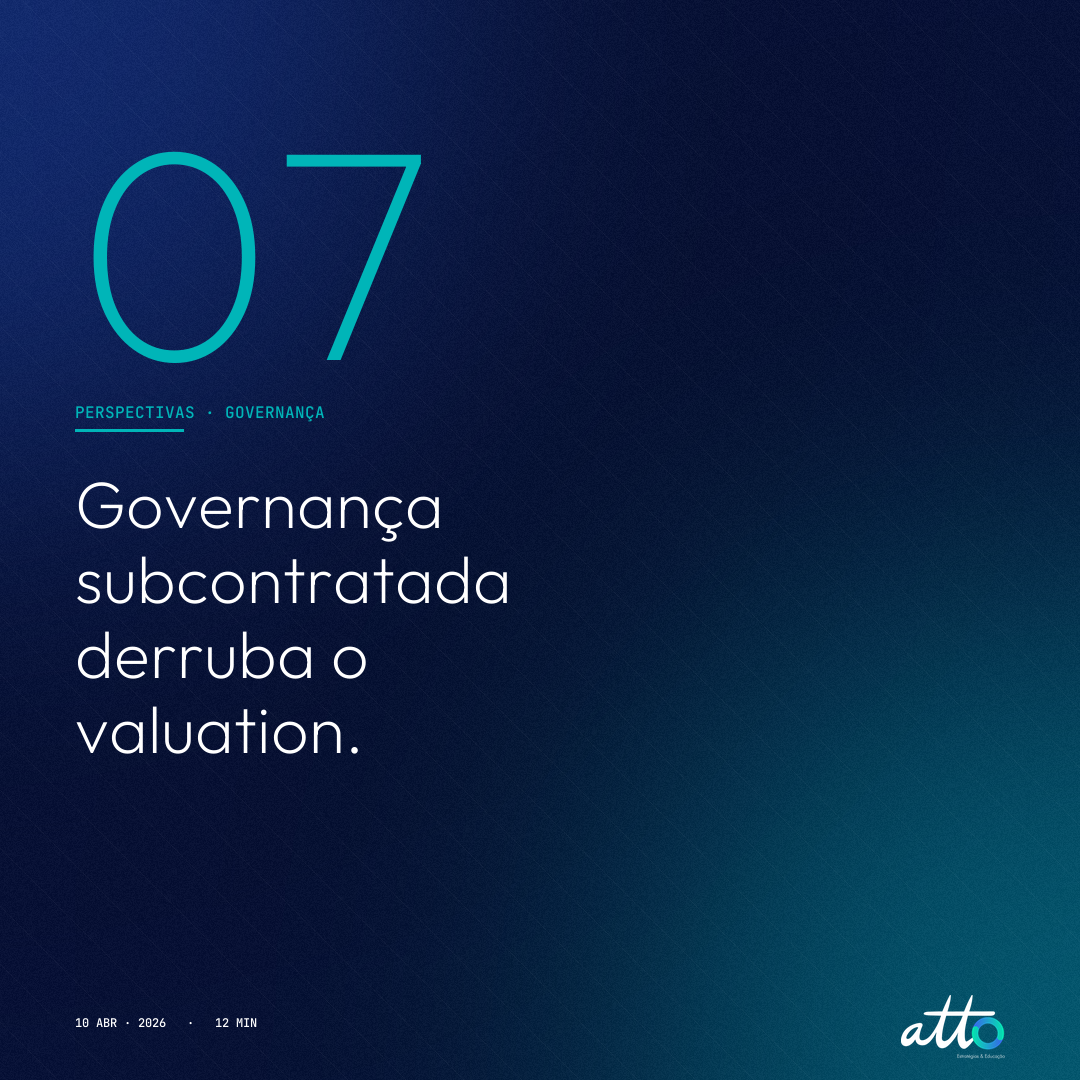
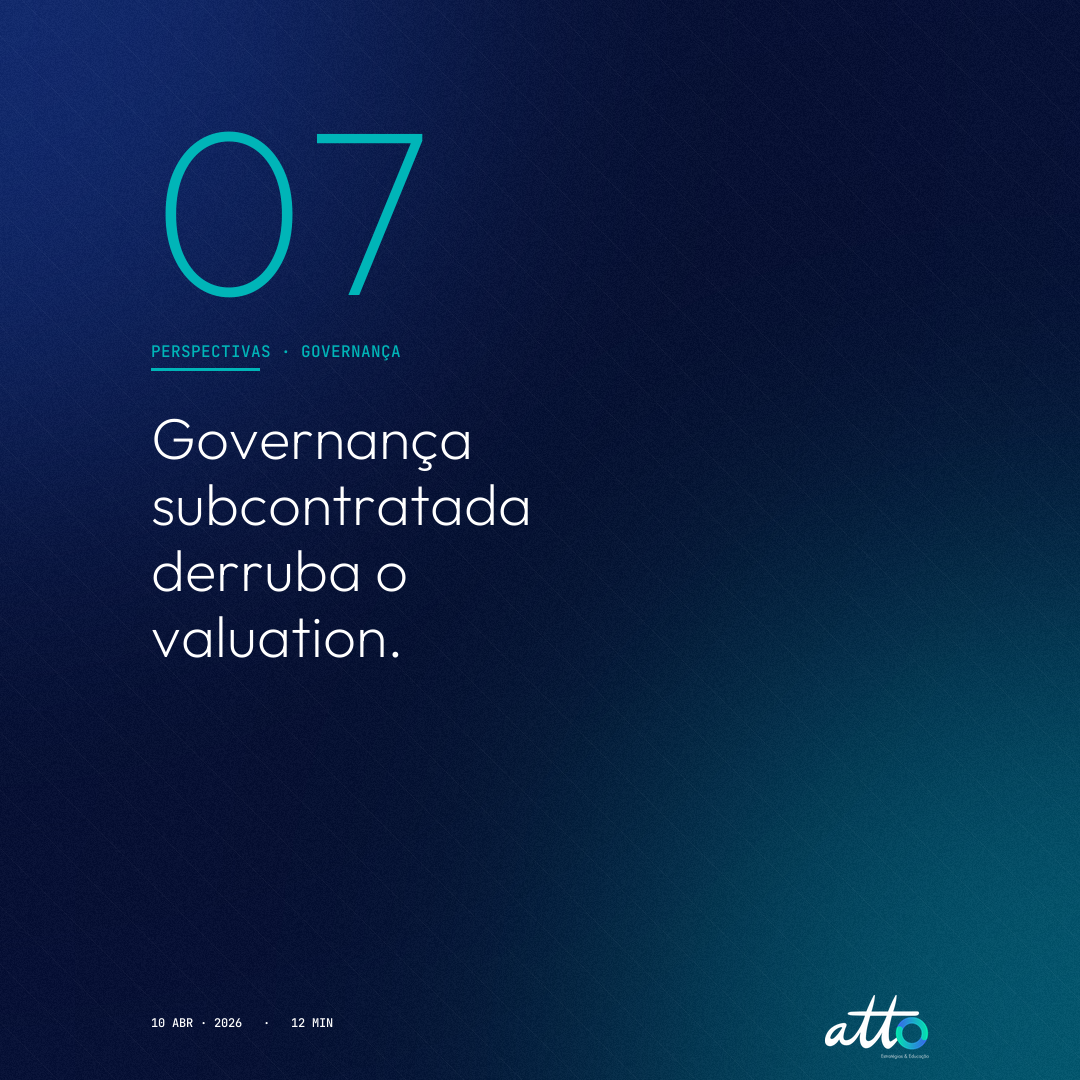
fix(perspectivas): card #9 + bug update_feature_block

diff --git a/site/perspectivas.html b/site/perspectivas.html
@@ -169,6 +169,13 @@
     <div class="persp-feed-grid">
       <!-- POSTS:FEED_START -->
       <!-- SCHEDULED-POSTS-START (cards inseridos automaticamente pelo workflow publish-scheduled) -->
+      <a href="perspectivas/reforma-tributaria-pequenas-e-medias-empresas-2026.html" class="persp-card" data-publish-date="2026-05-06">
+        <div class="persp-card-img img-dark" style="background-image:url('assets/capas/reforma-tributaria-pequenas-e-medias-empresas-2026_hero.png');background-size:cover;background-position:center"><span class="tag">Direção</span></div>
+        <div class="persp-card-meta"><span>13 min</span><span>Mai · 2026</span></div>
+        <h3>Reforma tributária em fase de teste: o que a pequena e média empresa precisa decidir em 2026 para proteger margem.</h3>
+        <p>CBS e IBS entraram em cobrança simbólica. O que precisa ser feito agora em precificação, contrato, ERP e cadastro fiscal para chegar a 2027 sem perder margem.</p>
+        <span class="author">Por Guilherme Walter</span>
+      </a>
       <a href="perspectivas/contratar-gente-engajada-pequenas-e-medias-empresas.html" class="persp-card" data-publish-date="2026-05-02">
         <div class="persp-card-img img-paper" style="background-image:url('assets/capas/contratar-gente-engajada-pequenas-e-medias-empresas_hero.png');background-size:cover;background-position:center"><span class="tag">Pessoas</span></div>
         <div class="persp-card-meta"><span>11 min</span><span>Mai · 2026</span></div>

diff --git a/scripts/make_newsletter_cover.py b/scripts/make_newsletter_cover.py
@@ -1,0 +1,174 @@
+#!/usr/bin/env python3
+"""
+make_newsletter_cover.py
+
+Gera o ícone 300×300 da Newsletter "Perspectivas Atto" no LinkedIn.
+Reaproveita exatamente as cores e fontes das capas dos posts (Outfit + JetBrains Mono,
+gradiente navy noite → azul atto + blob teal) para manter a coesão visual.
+
+A renderização é feita em 600×600 e downsampleada para 300×300, para garantir
+nitidez nos displays Retina do feed do LinkedIn.
+
+Uso:
+    cd ~/Documents/Claude/Projects/Site\\ da\\ Atto/site
+    python3 scripts/make_newsletter_cover.py
+
+Saída:
+    ~/Desktop/atto_newsletter_300.png
+
+Pode ser rodado quantas vezes quiser; sobrescreve o arquivo existente.
+"""
+from PIL import Image, ImageDraw, ImageFont, ImageFilter
+import numpy as np
+import os
+from pathlib import Path
+
+# ============================================================
+# CONFIG (mesmas constantes do capas.py)
+# ============================================================
+ROOT = os.path.abspath(os.path.join(os.path.dirname(__file__), ".."))
+SITE = os.path.join(ROOT, "site")
+FONT_DIR = "/Users/guilhermewalter/Documents/Claude/Projects/Site da Atto/fonts"
+LOGO_PATH = os.path.join(SITE, "assets", "atto_logo_white_o.png")
+OUT_PATH = os.path.expanduser("~/Desktop/atto_newsletter_300.png")
+
+OUTFIT = os.path.join(FONT_DIR, "Outfit-VariableFont_wght.ttf")
+MONO = os.path.join(FONT_DIR, "JetBrainsMono-VariableFont_wght.ttf")
+
+AZUL_ATTO = (26, 58, 143)
+AZUL_NOITE = (8, 18, 56)
+TEAL = (0, 181, 184)
+
+# Renderiza em 600×600 (retina) e downsampleia para 300×300
+SCALE = 2
+W = H = 300 * SCALE  # 600x600
+
+
+# ============================================================
+# HELPERS
+# ============================================================
+def blob(img, cx, cy, r, color, alpha=180, blur=None):
+    """Pinta um disco borrado por cima da imagem (para gradiente sutil)."""
+    b = Image.new("RGBA", img.size, (0, 0, 0, 0))
+    d = ImageDraw.Draw(b)
+    d.ellipse([cx - r, cy - r, cx + r, cy + r], fill=color + (alpha,))
+    b = b.filter(ImageFilter.GaussianBlur(blur or r // 2))
+    if img.mode != "RGBA":
+        img = img.convert("RGBA")
+    return Image.alpha_composite(img, b)
+
+
+def add_grain(img, intensity=4):
+    """Adiciona ruído sutil para evitar banding no gradiente."""
+    arr = np.array(img, dtype=np.int16)
+    noise = np.random.randint(-intensity, intensity, arr.shape[:2], dtype=np.int16)
+    for c in range(3):
+        arr[:, :, c] = np.clip(arr[:, :, c] + noise, 0, 255)
+    return Image.fromarray(arr.astype(np.uint8))
+
+
+def mono(size, weight=500):
+    f = ImageFont.truetype(MONO, size)
+    try:
+        f.set_variation_by_axes([weight])
+    except Exception:
+        pass
+    return f
+
+
+def draw_letter_spaced(d, text, x, y, font, fill, letter_spacing_em=0.12):
+    """Desenha texto com letter-spacing manual (Pillow não tem nativo)."""
+    sample_h = font.getbbox("A")[3]
+    extra = int(sample_h * letter_spacing_em)
+    cx = x
+    for ch in text:
+        d.text((cx, y), ch, fill=fill, font=font)
+        bbox = d.textbbox((0, 0), ch, font=font)
+        cx += (bbox[2] - bbox[0]) + extra
+    return cx - extra  # x final
+
+
+def measure_letter_spaced(d, text, font, letter_spacing_em=0.12):
+    """Mede a largura total do texto com letter-spacing manual."""
+    sample_h = font.getbbox("A")[3]
+    extra = int(sample_h * letter_spacing_em)
+    total = 0
+    for i, ch in enumerate(text):
+        bbox = d.textbbox((0, 0), ch, font=font)
+        total += (bbox[2] - bbox[0])
+        if i < len(text) - 1:
+            total += extra
+    return total
+
+
+# ============================================================
+# RENDER
+# ============================================================
+def main():
+    if not os.path.exists(LOGO_PATH):
+        raise SystemExit(
+            f"❌ Logo não encontrado em {LOGO_PATH}\n"
+            "   Verifique se o caminho do projeto está correto."
+        )
+    if not os.path.exists(OUTFIT) or not os.path.exists(MONO):
+        raise SystemExit(
+            f"❌ Fontes não encontradas em {FONT_DIR}\n"
+            "   Esse script espera as fontes nos paths do capas.py."
+        )
+
+    # 1) Fundo navy + blobs (gradient sintético)
+    img = Image.new("RGBA", (W, H), AZUL_NOITE + (255,))
+    img = blob(img, int(W * 0.92), int(H * 0.92), int(W * 0.45), TEAL,      alpha=120, blur=int(W * 0.24))
+    img = blob(img, int(W * 0.08), int(H * 0.10), int(W * 0.50), AZUL_ATTO, alpha=170, blur=int(W * 0.26))
+    img = add_grain(img.convert("RGB"), 3).convert("RGBA")
+
+    # 2) Logo Atto white centralizado (logo branco com o O turquesa)
+    logo = Image.open(LOGO_PATH).convert("RGBA")
+    target_w = int(W * 0.50)  # logo ocupa metade da largura
+    ratio = target_w / logo.width
+    logo_w, logo_h = target_w, int(logo.height * ratio)
+    logo = logo.resize((logo_w, logo_h), Image.LANCZOS)
+    lx = (W - logo_w) // 2
+    ly = int(H * 0.32) - logo_h // 2  # centralizado um pouco acima do meio
+    img.paste(logo, (lx, ly), logo)
+
+    # 3) Linha teal de acento abaixo do logo
+    d = ImageDraw.Draw(img, "RGBA")
+    line_y = ly + logo_h + int(H * 0.07)
+    line_w = int(W * 0.12)
+    line_h = max(2, int(H * 0.008))
+    d.rectangle(
+        [(W - line_w) // 2, line_y, (W + line_w) // 2, line_y + line_h],
+        fill=TEAL,
+    )
+
+    # 4) "PERSPECTIVAS" em JetBrains Mono caps com letter-spacing
+    perspectivas_size = int(H * 0.057)
+    f_mono = mono(perspectivas_size, weight=500)
+    text = "PERSPECTIVAS"
+    text_w = measure_letter_spaced(d, text, f_mono, 0.14)
+    text_x = (W - text_w) // 2
+    text_y = line_y + int(H * 0.04)
+    draw_letter_spaced(
+        d, text, text_x, text_y, f_mono,
+        fill=(255, 255, 255, 240),
+        letter_spacing_em=0.14,
+    )
+
+    # 5) Downsample para 300×300 (qualidade Retina)
+    out = img.convert("RGB").resize((300, 300), Image.LANCZOS)
+
+    # 6) Garante a pasta da Desktop e salva
+    Path(OUT_PATH).parent.mkdir(parents=True, exist_ok=True)
+    out.save(OUT_PATH, "PNG", optimize=True)
+
+    print(f"\n✓ Logo da Newsletter gerado em:")
+    print(f"  {OUT_PATH}\n")
+    print("Próximo passo:")
+    print("  1. Volta na janela do LinkedIn (Criar newsletter)")
+    print("  2. Clique em 'Carregar imagem' e selecione esse arquivo da Desktop")
+    print("  3. Confirme que o preview aparece sem distorção")
+
+
+if __name__ == "__main__":
+    main()

diff --git a/scripts/regen_ig_feeds.py b/scripts/regen_ig_feeds.py
@@ -1,0 +1,64 @@
+#!/usr/bin/env python3
+"""
+regen_ig_feeds.py
+
+Regenera APENAS as capas Instagram Feed (1080×1080) de todos os posts em
+perspectivas-data.json. Use depois de mexer no layout da ig-feed em capas.py
+(safe zone para o "novo grid" 4:5 do Instagram).
+
+Os outros formatos (hero, og, ig-story) NÃO são tocados por este script.
+"""
+import json
+import os
+import subprocess
+import sys
+from pathlib import Path
+
+ROOT = Path(__file__).resolve().parent.parent
+DATA_PATH = ROOT / "site" / "perspectivas-data.json"
+CAPAS_PY = ROOT / "scripts" / "capas.py"
+
+
+def main() -> int:
+    if not DATA_PATH.exists():
+        print(f"❌ {DATA_PATH} não encontrado", file=sys.stderr)
+        return 1
+
+    posts = json.loads(DATA_PATH.read_text(encoding="utf-8"))
+    slugs = [p["slug"] for p in posts]
+
+    print(f"\n→ Regenerando capas ig-feed de {len(slugs)} posts:\n")
+
+    erros: list[str] = []
+    for slug in slugs:
+        try:
+            proc = subprocess.run(
+                [sys.executable, str(CAPAS_PY), "--slug", slug, "--only", "ig-feed"],
+                cwd=str(ROOT),
+                capture_output=True,
+                text=True,
+                timeout=60,
+            )
+            if proc.returncode == 0:
+                print(f"  ✓ {slug}")
+            else:
+                erros.append(slug)
+                print(f"  ✗ {slug}\n    {proc.stderr.strip()}")
+        except Exception as e:
+            erros.append(slug)
+            print(f"  ✗ {slug}: {e}")
+
+    if erros:
+        print(f"\n⚠  Falhou em {len(erros)} posts: {', '.join(erros)}")
+        return 1
+
+    print(f"\n✓ {len(slugs)} ig-feeds regeneradas em site/assets/capas/")
+    print("\nPróximos passos:")
+    print("  1. Confere uma ig-feed nova (ex: contratar-gente-engajada-pequenas-e-medias-empresas_ig-feed.png)")
+    print("  2. Se gostou, posta no Instagram pra validar como aparece no grid")
+    print("  3. git add site/assets/capas/*_ig-feed.png && git commit && git push")
+    return 0
+
+
+if __name__ == "__main__":
+    sys.exit(main())

diff --git a/scripts/capas.py b/scripts/capas.py
@@ -131,9 +131,17 @@ def gerar_capa(W, H, numero, categoria, titulo, data, leitura, out_path, formato
 
     d = ImageDraw.Draw(img, 'RGBA')
 
-    # Margens — formatos estreitos (largura <= 1200) ganham margem lateral menor
+    # Margens — formatos quadrados (ig-feed 1080×1080) ganham margem lateral
+    # MAIOR para sobreviver ao crop 4:5 do "novo grid" do Instagram, que
+    # corta as laterais do thumbnail no perfil.
     is_narrow = W <= 1200
-    if is_narrow:
+    is_square = (W == H)
+    if is_square:
+        # Safe zone para ig-feed: 14% de cada lado (~150px em 1080) garante
+        # que o conteúdo crítico (número e título) sobreviva ao crop do grid.
+        PAD_L = int(W * 0.14)
+        PAD_R = int(W * 0.14)
+    elif is_narrow:
         PAD_L = int(W * 0.07)
         PAD_R = int(W * 0.07)
     else:
@@ -142,8 +150,13 @@ def gerar_capa(W, H, numero, categoria, titulo, data, leitura, out_path, formato
     PAD_T = int(90 * scale)
     PAD_B = int(90 * scale)
 
-    # 1) Número grande (topo)
-    num_size = int(H * 0.28) if H <= 1200 else int(H * 0.24)
+    # 1) Número grande (topo) — em ig-feed, reduzido para caber na safe zone
+    if is_square:
+        num_size = int(H * 0.22)
+    elif H <= 1200:
+        num_size = int(H * 0.28)
+    else:
+        num_size = int(H * 0.24)
     d.text((PAD_L, PAD_T - int(20 * scale)), numero, fill=TEAL + (220,), font=outfit(num_size, 160))
     num_bottom = PAD_T + int(num_size * 0.95)
 
@@ -166,8 +179,10 @@ def gerar_capa(W, H, numero, categoria, titulo, data, leitura, out_path, formato
     is_tall = H > W
     if is_tall:
         base_size = int(W * 0.085)   # story 9:16 — título grande
+    elif is_square:
+        base_size = int(W * 0.054)   # ig-feed quadrado com safe zone — título reduzido
     elif is_narrow:
-        base_size = int(W * 0.062)   # feed quadrado
+        base_size = int(W * 0.062)   # feed quadrado legacy
     else:
         base_size = int(W * 0.048)   # hero / og landscape
     sizes = [int(base_size * m) for m in (1.0, 0.92, 0.84, 0.76, 0.68, 0.6, 0.52, 0.45)]

diff --git a/scripts/publish_scheduled.py b/scripts/publish_scheduled.py
@@ -213,16 +213,15 @@ def update_post_nav(slug: str, prev_slug: str | None, prev_title: str | None,
     return False
 
 
-def update_feature_block(post: dict) -> bool:
+def update_feature_block(text: str, post: dict) -> str:
     """Atualiza o bloco POSTS:FEATURE_START..END em site/perspectivas.html
-    para destacar o post mais recente."""
-    if not PERSPECTIVAS_HTML.exists():
-        return False
-    text = PERSPECTIVAS_HTML.read_text(encoding="utf-8")
+    para destacar o post mais recente. Recebe e retorna o texto em memória
+    (não escreve em disco) para não conflitar com inserções pendentes do card.
+    """
     start = text.find(FEATURE_MARK_START)
     end = text.find(FEATURE_MARK_END)
     if start == -1 or end == -1:
-        return False
+        return text
 
     pdate = datetime.strptime(post["publish_date"], "%Y-%m-%d").date()
     mes_curto = MES_CURTO[pdate.month]
@@ -254,10 +253,7 @@ def update_feature_block(post: dict) -> bool:
         f'    '
     )
     new_text = text[:start] + new_block + text[end:]
-    if new_text != text:
-        PERSPECTIVAS_HTML.write_text(new_text, encoding="utf-8")
-        return True
-    return False
+    return new_text
 
 
 def main() -> int:
@@ -339,10 +335,10 @@ def main() -> int:
                     next_title=post.get("h3", ""),
                 )
 
-        # 5. Atualiza o bloco "Em destaque" para o post mais recente
-        update_feature_block(post)
-        # recarrega perspectivas_text porque update_feature_block escreveu
-        perspectivas_text = PERSPECTIVAS_HTML.read_text(encoding="utf-8")
+        # 5. Atualiza o bloco "Em destaque" para o post mais recente.
+        # update_feature_block agora opera só em memória — a persistência
+        # acontece no bloco final, junto com o card e o sitemap.
+        perspectivas_text = update_feature_block(perspectivas_text, post)
 
         published.append(slug)
 
